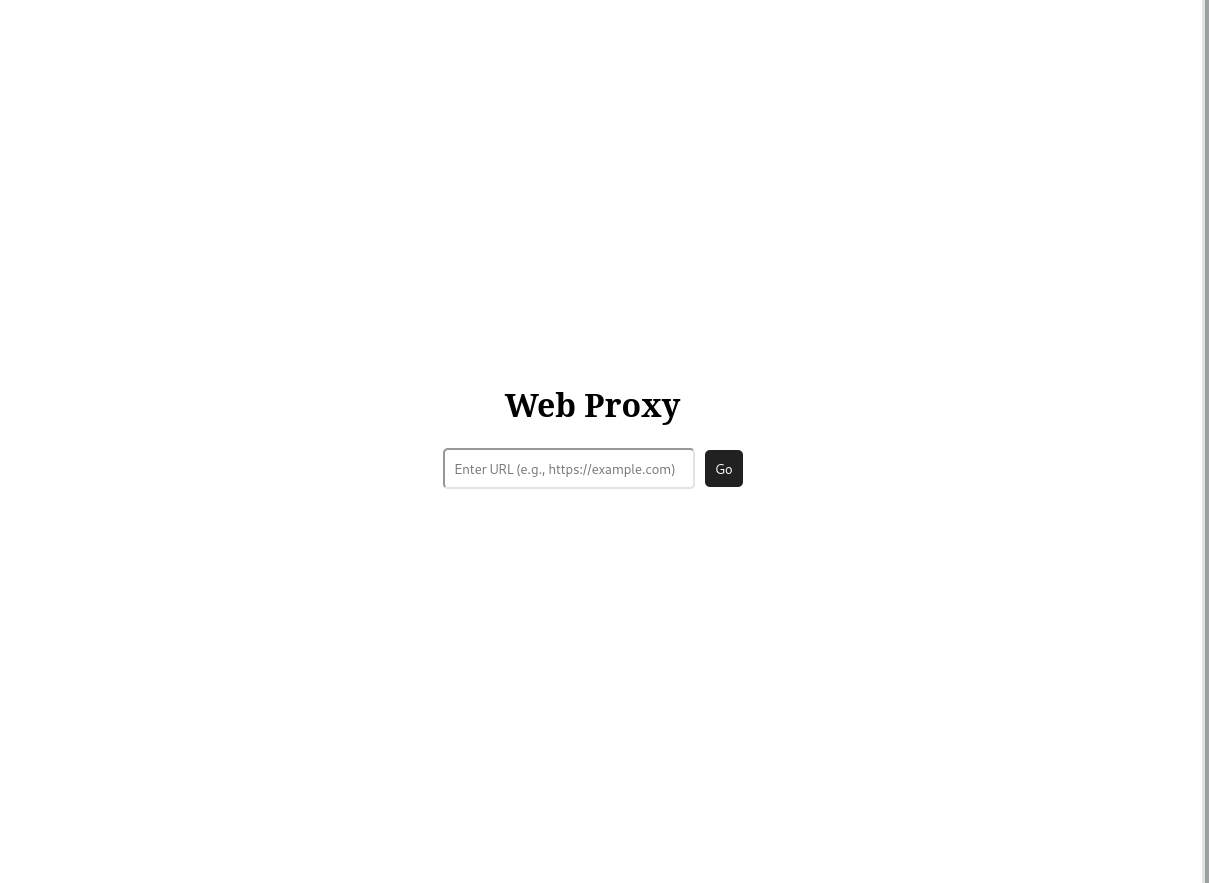
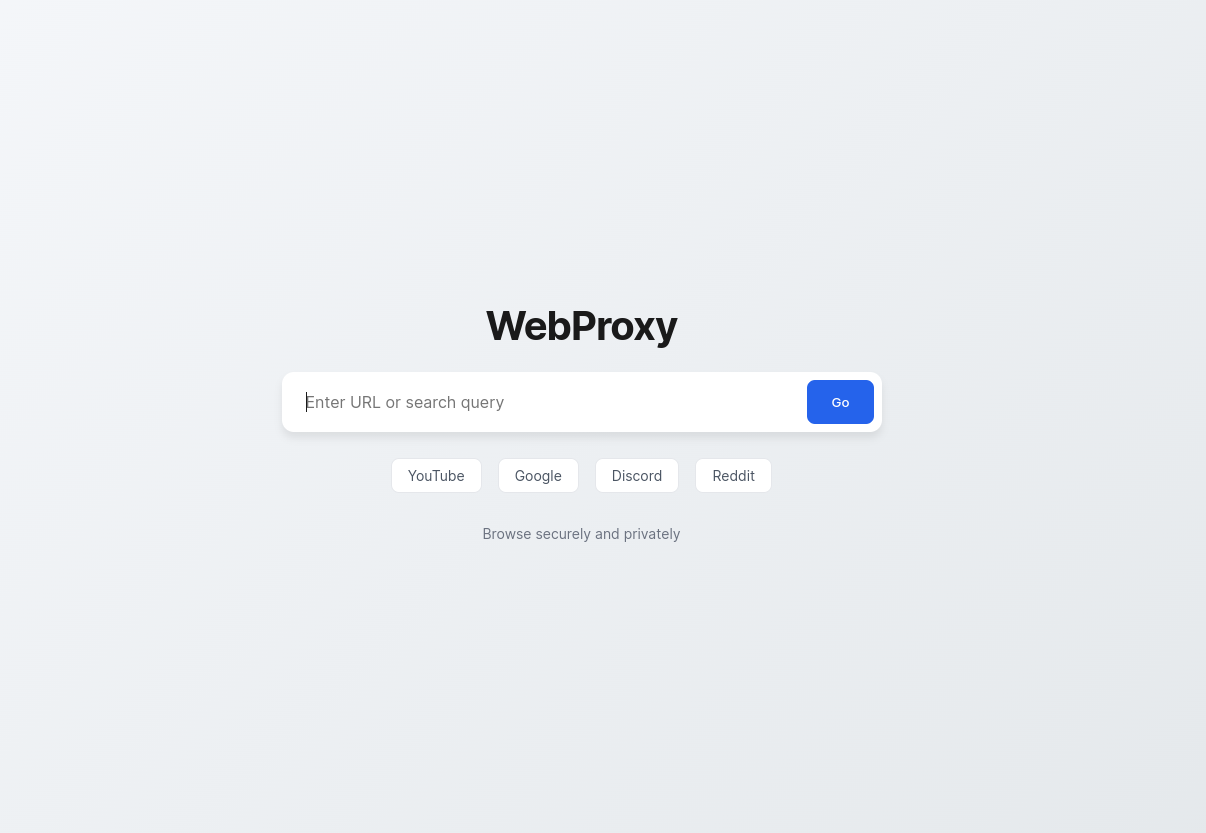
feat: optimized code and ui

diff --git a/public/index.html b/public/index.html
@@ -1,54 +1,160 @@
-<html>
+<!DOCTYPE html>
+<html lang="en">
     <head>
+        <meta charset="UTF-8" />
+        <meta name="viewport" content="width=device-width, initial-scale=1.0" />
         <title>Web Proxy</title>
         <style>
-            .search {
+            * {
+                margin: 0;
+                padding: 0;
+                box-sizing: border-box;
+                font-family: 'Inter', -apple-system, BlinkMacSystemFont,
+                    sans-serif;
+            }
+
+            body {
+                min-height: 100vh;
                 display: flex;
                 flex-direction: column;
-                justify-content: center;
                 align-items: center;
-                height: 100vh;
+                justify-content: center;
+                background: linear-gradient(135deg, #f5f7fa 0%, #e4e8eb 100%);
+                padding: 20px;
             }
 
-            form {
+            .container {
+                width: 100%;
+                max-width: 600px;
+                text-align: center;
+            }
+
+            .logo {
+                font-size: 2.5rem;
+                font-weight: 700;
+                color: #1a1a1a;
+                margin-bottom: 1.5rem;
+                letter-spacing: -1px;
+            }
+
+            .search-container {
+                background: white;
+                padding: 0.5rem;
+                border-radius: 12px;
+                box-shadow: 0 4px 6px rgba(0, 0, 0, 0.05);
+                margin-bottom: 1.5rem;
                 display: flex;
-                justify-content: center;
-                align-items: center;
-                gap: 10px;
-                min-width: 300px;
+                transition: transform 0.2s ease;
             }
 
-            input {
-                padding: 10px;
-                border-radius: 5px;
+            .search-container:focus-within {
+                transform: translateY(-2px);
+                box-shadow: 0 6px 8px rgba(0, 0, 0, 0.08);
+            }
+
+            .search-input {
                 flex: 1;
+                padding: 0.75rem 1rem;
+                border: none;
+                outline: none;
+                font-size: 1rem;
+                color: #1a1a1a;
+                background: transparent;
             }
 
-            button {
-                padding: 10px;
-                border-radius: 5px;
+            .search-button {
+                padding: 0.75rem 1.5rem;
+                background: #2563eb;
+                color: white;
                 border: none;
-                background-color: #212121;
-                color: #fff;
+                border-radius: 8px;
+                font-weight: 500;
+                cursor: pointer;
+                transition: background-color 0.2s ease;
+            }
+
+            .search-button:hover {
+                background: #1d4ed8;
+            }
+
+            .quick-links {
+                display: flex;
+                gap: 1rem;
+                justify-content: center;
+                margin-bottom: 2rem;
+            }
+
+            .quick-link {
+                padding: 0.5rem 1rem;
+                background: white;
+                border-radius: 8px;
+                color: #4b5563;
+                text-decoration: none;
+                font-size: 0.875rem;
+                transition: all 0.2s ease;
+                border: 1px solid #e5e7eb;
+            }
+
+            .quick-link:hover {
+                background: #f9fafb;
+                color: #1a1a1a;
+            }
+
+            .footer {
+                margin-top: 2rem;
+                color: #6b7280;
+                font-size: 0.875rem;
+            }
+
+            @media (max-width: 640px) {
+                .container {
+                    padding: 0 1rem;
+                }
+
+                .quick-links {
+                    flex-wrap: wrap;
+                }
+
+                .logo {
+                    font-size: 2rem;
+                }
             }
         </style>
     </head>
     <body>
-        <div class="search">
-            <h1>Web Proxy</h1>
-            <form>
-                <input placeholder="Enter URL (e.g., https://example.com)" />
-                <button type="submit">Go</button>
-            </form>
-        </div>
+        <div class="container">
+            <h1 class="logo">WebProxy</h1>
 
+            <form id="url-form" class="search-container">
+                <input
+                    type="text"
+                    id="url-input"
+                    class="search-input"
+                    placeholder="Enter URL or search query"
+                    autofocus
+                />
+                <button type="submit" class="search-button">Go</button>
+            </form>
+
+            <div class="quick-links">
+                <a href="#" data-url="https://youtube.com" class="quick-link"
+                    >YouTube</a
+                >
+                <a href="#" data-url="https://google.com" class="quick-link"
+                    >Google</a
+                >
+                <a href="#" data-url="https://discord.com" class="quick-link"
+                    >Discord</a
+                >
+                <a href="#" data-url="https://reddit.com" class="quick-link"
+                    >Reddit</a
+                >
+            </div>
+
+            <div class="footer">Browse securely and privately</div>
+        </div>
         <script src="/uv/uv.bundle.js"></script>
         <script src="/uv/uv.config.js"></script>
         <script src="index.js"></script>
-        <script
-            src="https://cdn.jsdelivr.net/npm/bootstrap@5.3.3/dist/js/bootstrap.bundle.min.js"
-            integrity="sha384-YvpcrYf0tY3lHB60NNkmXc5s9fDVZLESaAA55NDzOxhy9GkcIdslK1eN7N6jIeHz"
-            crossorigin="anonymous"
-        ></script>
     </body>
 </html>

diff --git a/public/uv/uv.config.js b/public/uv/uv.config.js
@@ -2,11 +2,141 @@
 self.__uv$config = {
     prefix: '/proxy/',
     bare: '/bare/',
-    encodeUrl: Ultraviolet.codec.xor.encode,
-    decodeUrl: Ultraviolet.codec.xor.decode,
+    encodeUrl: Ultraviolet.codec.base64.encode,
+    decodeUrl: Ultraviolet.codec.base64.decode,
     handler: '/uv/uv.handler.js',
     client: '/uv/uv.client.js',
     bundle: '/uv/uv.bundle.js',
     config: '/uv/uv.config.js',
     sw: '/uv/uv.sw.js',
 };
+
+self.addEventListener('DOMContentLoaded', () => {
+    if (!window.location.href.includes(__uv$config.prefix)) return;
+
+    const css = `
+        #topbar, #topbar * {
+            all: initial;
+        }
+        #topbar {
+            position: fixed;
+            top: 0;
+            left: 50%;
+            transform: translateX(-50%);
+            transition: all 0.3s ease;
+            display: grid;
+            grid-template-columns: 1fr;
+            grid-template-rows: 1fr 1fr;
+            grid-auto-rows: 1fr;
+            z-index: 9999;
+        }
+        #topbar .bar-container {
+            background-color: #f0f0f0;
+            border: 1px solid #ccc;
+            border-radius: 0 0 5px 5px;
+            padding: 5px 10px;
+            display: flex;
+            gap: 4px;
+            align-items: center;
+        }
+        #topbar.collapsed {
+            transform: translateY(-50%) translateX(-50%);
+        }
+        #topbar input {
+            width: 300px;
+            padding: 5px;
+            margin-right: 5px;
+            border: 1px solid #ccc;
+            color: #333;
+        }
+        #topbar button, #topbar btn {
+            padding: 5px 10px;
+            background-color: #4caf50;
+            color: white;
+            border: none;
+            cursor: pointer;
+            border-radius: 5px;
+        }
+        #url-form {
+            display: flex;
+            align-items: center;
+            height: 100%;
+            gap: 4px;
+        }
+        #topbar .toggle-btn {
+            background-color: #ddd;
+            font-size: 0.75rem;
+            padding: 10px;
+            color: #333;
+            display: block;
+            margin-left: auto;
+        }
+    `;
+
+    document.head.appendChild(document.createElement('style')).textContent =
+        css;
+
+    const topbar = document.createElement('div');
+    topbar.id = 'topbar';
+    topbar.classList.add('collapsed');
+    const topbarContent = `
+    <div class="bar-container">
+        <form id="url-form">
+            <button type="button" id="home-btn">🏠 Home</button>
+            <input type="url" id="url-input" placeholder="Enter URL" />
+            <button type="submit">Go</button>
+        </form>
+    </div>
+    <div class="toggle-btn-container">
+        <button class="toggle-btn" id="toggle-btn">▼</button>
+    </div>
+    `;
+    topbar.innerHTML = topbarContent;
+    document.body.appendChild(topbar);
+
+    const toggleBtn = document.getElementById('toggle-btn');
+    const urlInput = document.getElementById('url-input');
+    const urlForm = document.getElementById('url-form');
+    const homeBtn = document.getElementById('home-btn');
+
+    homeBtn.addEventListener('click', () => {
+        window.location.href = '/';
+    });
+
+    // set the initial url
+    const initialUrl = window.location.href.split(__uv$config.prefix)[1];
+    urlInput.value = __uv$config.decodeUrl(initialUrl);
+
+    topbar.addEventListener('focusout', (event) => {
+        if (!topbar.contains(event.relatedTarget)) {
+            topbar.classList.add('collapsed');
+        }
+    });
+
+    urlForm.addEventListener('submit', async (event) => {
+        event.preventDefault();
+
+        let url = urlInput.value.trim();
+        if (!isUrl(url)) url = 'https://www.google.com/search?q=' + url;
+        else if (!(url.startsWith('https://') || url.startsWith('http://')))
+            url = 'http://' + url;
+
+        window.location.href = __uv$config.prefix + __uv$config.encodeUrl(url);
+    });
+
+    function isUrl(val = '') {
+        return (
+            /^https?:\/\//.test(val) ||
+            (val.includes('.') && !val.startsWith(' '))
+        );
+    }
+
+    toggleBtn.addEventListener('click', () => {
+        topbar.classList.toggle('collapsed');
+        toggleBtn.textContent = topbar.classList.contains('collapsed')
+            ? '▼'
+            : '▲';
+    });
+});
+
+// create a fixed top bar with a url input and a collapse/expand button

diff --git a/public/index.js b/public/index.js
@@ -1,5 +1,11 @@
-const form = document.querySelector('form');
-const input = document.querySelector('input');
+const form = document.querySelector('#url-form');
+const input = document.querySelector('#url-input');
+const quickLinks = document.querySelectorAll('.quick-link');
+
+quickLinks.forEach((link) => {
+    const originalHref = link.getAttribute('data-url');
+    link.href = __uv$config.prefix + __uv$config.encodeUrl(originalHref);
+});
 
 form.addEventListener('submit', async (event) => {
     event.preventDefault();
@@ -16,10 +22,7 @@ form.addEventListener('submit', async (event) => {
 });
 
 function isUrl(val = '') {
-    if (
-        /^http(s?):\/\//.test(val) ||
-        (val.includes('.') && val.substr(0, 1) !== ' ')
-    )
-        return true;
-    return false;
+    return (
+        /^https?:\/\//.test(val) || (val.includes('.') && !val.startsWith(' '))
+    );
 }

diff --git a/README.md b/README.md
@@ -10,10 +10,10 @@ A simple web proxy built with Node.js and Express and Ultraviolet.
 pnpm install
 ```
 
-2. Run the development server
+2. Run the server
 
 ```bash
-pnpm dev
+pnpm start
 ```
 
 3. Open the browser and navigate to `http://localhost:3000`
